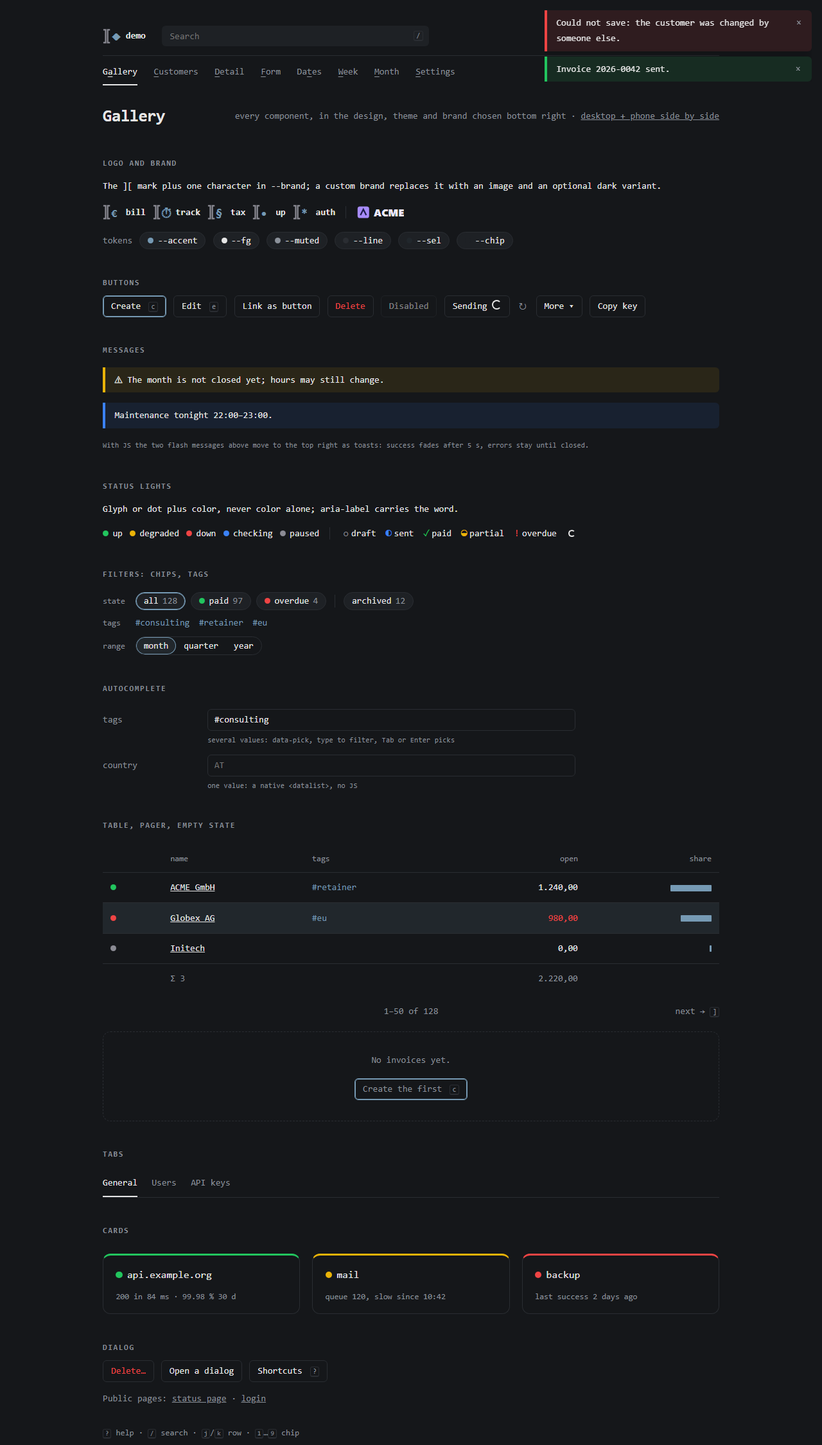
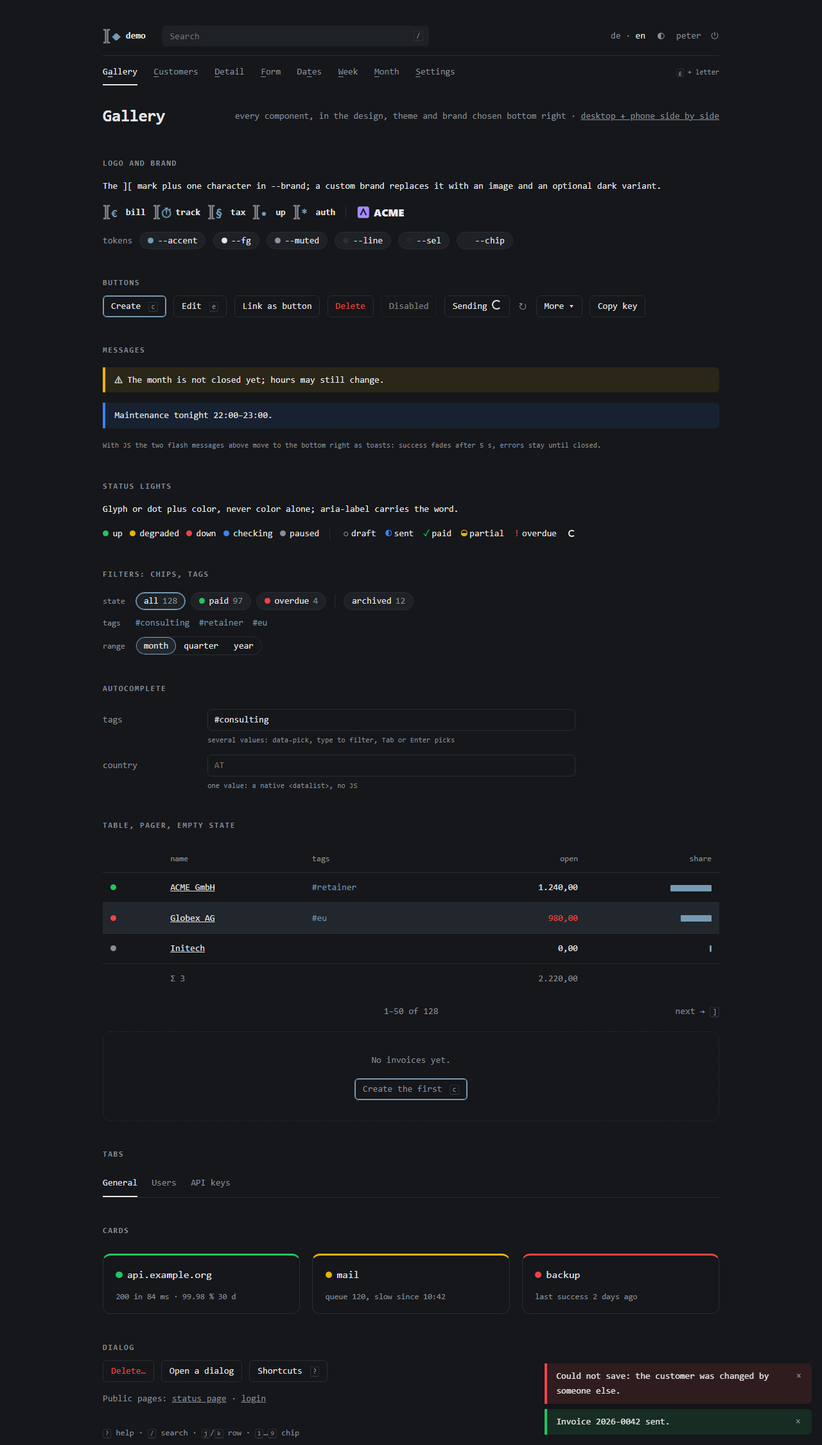
Keep two designs, plain and nordic; polish both
- remove ink, bw, terminal and modern (and the --font and --rule tokens
  only they used): fewer designs, each finished in light, dark and phone
- toasts at the bottom (full width on phones) so errors never cover the
  header, search, theme or logout
- checkbox and radio labels in forms read as values, not field names
- month calendar on phones: hours hidden in cells, bars carry them
- public pages (no nav) drop the keyboard hints line
- nordic: every main h1 gets the larger title, not only .pagehead

Changed region(s): [[0.6562, 0.9333, 1.0, 0.9956], [0.6562, 0.0, 1.0, 0.0622]]

diff --git a/ui.css b/ui.css
@@ -13,9 +13,7 @@
   /* state colors: one value for both themes, same in favicons, logos, mails */
   --green: #22c55e; --yellow: #eab308; --red: #ef4444; --blue: #3b82f6; --grey: #8b8b94;
   --mono: ui-monospace, SFMono-Regular, Menlo, Consolas, monospace;
-  --font: var(--mono); /* body text; only the modern design switches to sans */
   --r: 4px; --r-lg: 8px; /* control and panel radius */
-  --rule: 1px; /* header, nav and footer rules */
   --maxw: 80rem;
 }
 /* designs: one attribute on <html>, only tokens plus a few typographic rules */
@@ -25,37 +23,12 @@
   --line: light-dark(#e6e6e1, #2a2d32); --chip: light-dark(#f1f1ed, #1e2125);
   --r: 6px; --r-lg: 12px; --maxw: 64rem;
 }
-:where([data-design="ink"]) { /* print: warm paper, square corners, heavy rules, vermilion */
-  --brand: #c2410c;
-  --bg: light-dark(#f7f5ef, #0e0e0d); --fg: light-dark(#1b1a17, #eceae4); --muted: light-dark(#6f6b62, #9a968c);
-  --line: light-dark(#d9d4c7, #34322e); --chip: light-dark(#eeeae0, #1c1b19);
-  --r: 0; --r-lg: 0; --rule: 2px;
-}
-:where([data-design="bw"]) { /* minimal black and white: no brand color, only state colors keep meaning */
-  --accent: var(--fg);
-  --bg: light-dark(#fff, #000); --fg: light-dark(#000, #fff); --muted: light-dark(#666, #999);
-  --line: light-dark(#d4d4d4, #3a3a3a); --chip: light-dark(#f5f5f5, #141414);
-  --r: 0; --r-lg: 0;
-}
-:where([data-design="terminal"]) { /* phosphor green text, amber accent, prompts; light is a paper terminal */
-  --brand: #b45309;
-  --bg: light-dark(#fbfbf7, #0b0f0c); --fg: light-dark(#183a1f, #a7f3b5); --muted: light-dark(#5d7262, #5f8f6a);
-  --line: light-dark(#cfdccf, #1f3324); --chip: light-dark(#eef3ec, #101a13);
-  --r: 0; --r-lg: 0;
-}
-:where([data-design="modern"]) { /* system sans, soft panels, filled primary buttons */
-  --brand: #4f46e5;
-  --font: system-ui, -apple-system, "Segoe UI", Roboto, sans-serif;
-  --bg: light-dark(#f8f8fa, #0f1012); --fg: light-dark(#18181b, #ececef); --muted: light-dark(#6b6b76, #9898a3);
-  --line: light-dark(#e6e6eb, #26262b); --chip: light-dark(#efeff3, #1c1c20);
-  --r: 8px; --r-lg: 14px; --maxw: 72rem;
-}
 :root[data-theme="light"] { color-scheme: light; }
 :root[data-theme="dark"] { color-scheme: dark; }
 
 /* ---- base ------------------------------------------------------------------------------------ */
 * { box-sizing: border-box; }
-body { margin: 0 auto; max-width: var(--maxw); padding: 1rem 16px 2rem; font: 14px/1.6 var(--font); background: var(--bg); color: var(--fg); overflow-wrap: break-word; }
+body { margin: 0 auto; max-width: var(--maxw); padding: 1rem 16px 2rem; font: 14px/1.6 var(--mono); background: var(--bg); color: var(--fg); overflow-wrap: break-word; }
 a { color: inherit; }
 h1 { font-size: 1.1rem; margin: 0; font-weight: normal; }
 h2 { font-size: 1rem; margin: 1.6rem 0 .6rem; font-weight: normal; color: var(--muted); }
@@ -83,7 +56,7 @@ code { font-family: var(--mono); }
 }
 
 /* ---- header, nav, search ------------------------------------------------------------------- */
-header.app { display: flex; flex-wrap: wrap; gap: .8rem 1.6rem; align-items: center; padding-bottom: .9rem; border-bottom: var(--rule) solid var(--line); }
+header.app { display: flex; flex-wrap: wrap; gap: .8rem 1.6rem; align-items: center; padding-bottom: .9rem; border-bottom: 1px solid var(--line); }
 header.app .right { margin-left: auto; display: flex; gap: .9rem; align-items: center; color: var(--muted); white-space: nowrap; }
 header.app .right a { text-decoration: none; }
 header.app .right a.on { color: var(--fg); }
@@ -152,11 +125,11 @@ details.more .menu form { display: block; }
 .flash.ok { --c: var(--green); }
 .warn { --c: var(--yellow); }
 .banner { --c: var(--blue); }
-.toasts { position: fixed; top: 1rem; right: 16px; z-index: 50; display: grid; gap: .5rem; width: min(26rem, calc(100vw - 32px)); max-height: calc(100vh - 2rem); overflow: auto; }
+.toasts { position: fixed; bottom: 1rem; right: 16px; z-index: 50; display: grid; gap: .5rem; width: min(26rem, calc(100vw - 32px)); max-height: calc(100vh - 2rem); overflow: auto; }
 .toasts .flash { margin: 0; display: flex; gap: .6rem; align-items: start; background: color-mix(in srgb, var(--c, var(--red)) 12%, var(--bg)); box-shadow: 0 4px 16px rgb(0 0 0 / .18); animation: toast-in .2s ease-out; }
 .toasts .flash .x { margin-left: auto; border: 0; background: none; padding: 0 .2rem; line-height: 1.6; color: var(--muted); }
 .toasts .flash.out { opacity: 0; transition: opacity .4s; }
-@keyframes toast-in { from { opacity: 0; transform: translateY(-.5rem); } }
+@keyframes toast-in { from { opacity: 0; transform: translateY(.5rem); } }
 .saved { color: var(--green); font-size: .88em; }
 .saved.err { color: var(--red); }
 
@@ -205,6 +178,7 @@ tfoot td { border-bottom: 0; color: var(--muted); }
 /* ---- forms and detail ------------------------------------------------------------------------ */
 .form { display: grid; grid-template-columns: 9rem minmax(0, 1fr); gap: .8rem 1.2rem; align-items: center; margin-top: 1.4rem; max-width: 46rem; }
 .form > label, .form > .lab { color: var(--muted); }
+.form > label:has(input[type=checkbox], input[type=radio]) { color: var(--fg); } /* a checkbox label is the value, not the field name */
 .form input:not([type=checkbox]):not([type=radio]):not([type=color]), .form select { width: 100%; }
 .form > .full { grid-column: 1 / -1; }
 .form > h2.full { margin: 1rem 0 0; font-size: 1em; color: var(--fg); border-bottom: 1px solid var(--line); padding-bottom: .3rem; }
@@ -225,7 +199,7 @@ dialog table td { padding: .25rem .6rem; }
 dialog[open] { animation: pop .15s ease-out; }
 @keyframes pop { from { opacity: 0; transform: scale(.97); } }
 .keys { margin-top: 1.8rem; font-size: .8rem; color: var(--muted); line-height: 2; }
-.foot { display: flex; flex-wrap: wrap; gap: .3rem 1.2rem; margin-top: 2rem; padding-top: 1rem; border-top: var(--rule) solid var(--line); font-size: .78rem; color: var(--muted); }
+.foot { display: flex; flex-wrap: wrap; gap: .3rem 1.2rem; margin-top: 2rem; padding-top: 1rem; border-top: 1px solid var(--line); font-size: .78rem; color: var(--muted); }
 .foot b { color: var(--fg); }
 /* standalone pages (login, public status): one centered column */
 body.center { max-width: 26rem; padding-top: 12vh; }
@@ -287,42 +261,9 @@ dialog.palette .none { padding: .35rem 1rem; color: var(--muted); }
 
 /* ---- design accents beyond tokens ------------------------------------------------------------ */
 [data-design="nordic"] body { padding: 2.5rem 2rem; line-height: 1.7; }
-[data-design="nordic"] .pagehead h1, [data-design="nordic"] main > h1 { font-size: 1.6rem; font-weight: 600; letter-spacing: -.01em; }
+[data-design="nordic"] main h1 { font-size: 1.6rem; font-weight: 600; letter-spacing: -.01em; }
 [data-design="nordic"] main h2:not(dialog h2, .card h2) { font-size: .75rem; font-weight: 600; letter-spacing: .14em; text-transform: uppercase; margin-top: 2.6rem; }
 [data-design="nordic"] th, [data-design="nordic"] td { padding: .7rem .75rem; }
-[data-design="ink"] h1 { font-weight: 800; text-transform: uppercase; letter-spacing: .04em; }
-[data-design="ink"] th { color: var(--fg); font-weight: 700; text-transform: uppercase; font-size: .75em; letter-spacing: .08em; border-bottom: 2px solid var(--fg); }
-[data-design="ink"] nav.app a.on, [data-design="ink"] .tabs a.on { border-bottom-width: 3px; border-color: var(--accent); }
-[data-design="ink"] button.pri, [data-design="ink"] .btn.pri { background: var(--fg); color: var(--bg); border-color: var(--fg); box-shadow: none; }
-[data-design="ink"] .chip, [data-design="ink"] .seg { border-radius: 0; }
-[data-design="bw"] a:not(.btn, .chip, .logo, nav a, .tabs a, .results a, .menu a) { text-underline-offset: 3px; }
-[data-design="bw"] button.pri, [data-design="bw"] .btn.pri { background: var(--fg); color: var(--bg); border-color: var(--fg); box-shadow: none; }
-[data-design="bw"] .chip.on { background: var(--fg); color: var(--bg); box-shadow: none; }
-[data-design="bw"] .chip.on .n { color: inherit; opacity: .7; }
-[data-design="bw"] .tag { text-decoration: underline; text-underline-offset: 3px; }
-[data-design="terminal"] h1::before { content: "$ "; color: var(--muted); }
-[data-design="terminal"] nav.app a.on, [data-design="terminal"] .tabs a.on { border-bottom: 0; }
-[data-design="terminal"] nav.app a.on::before, [data-design="terminal"] .tabs a.on::before { content: "> "; color: var(--accent); }
-[data-design="terminal"] tr.sel td, [data-design="terminal"] tr.sel td :not(.dot, .st, .bar) { background: var(--fg); color: var(--bg); }
-[data-design="terminal"] input, [data-design="terminal"] textarea { caret-color: var(--accent); caret-shape: block; }
-[data-design="terminal"] input:focus, [data-design="terminal"] select:focus, [data-design="terminal"] textarea:focus { box-shadow: none; border-style: dashed; }
-[data-design="terminal"] .chip, [data-design="terminal"] .seg { border-radius: 0; }
-[data-design="terminal"] .chip.on { background: var(--accent); color: var(--bg); box-shadow: none; }
-[data-design="terminal"] .chip.on .n { color: inherit; }
-[data-design="terminal"] .card { border-top-width: 1px; border-left: 3px solid var(--c, var(--line)); }
-[data-design="modern"] body { font-size: 15px; }
-[data-design="modern"] h1 { font-size: 1.5rem; font-weight: 650; letter-spacing: -.02em; }
-[data-design="modern"] h2 { font-weight: 600; }
-[data-design="modern"] input, [data-design="modern"] select { min-height: 2.25rem; }
-[data-design="modern"] button, [data-design="modern"] .btn { padding: .4rem 1rem; font-weight: 500; }
-[data-design="modern"] button.pri, [data-design="modern"] .btn.pri { background: var(--accent); color: light-dark(#fff, #0f1012); border-color: var(--accent); box-shadow: 0 1px 2px rgb(0 0 0 / .15); }
-[data-design="modern"] button.pri kbd, [data-design="modern"] .btn.pri kbd { color: inherit; border-color: currentColor; opacity: .75; }
-[data-design="modern"] .chip { border-color: transparent; padding: .15rem .85rem; }
-[data-design="modern"] .chip.on { background: var(--sel); color: var(--accent); box-shadow: none; border-color: transparent; }
-[data-design="modern"] table { background: var(--bg); }
-[data-design="modern"] th { font-size: .78em; text-transform: uppercase; letter-spacing: .05em; }
-[data-design="modern"] .card, [data-design="modern"] .empty { background: light-dark(#fff, #16171a); box-shadow: 0 1px 3px rgb(0 0 0 / .08); }
-[data-design="modern"] .card { border-top-width: 1px; box-shadow: inset 0 3px 0 var(--c, transparent), 0 1px 3px rgb(0 0 0 / .08); }
 
 /* ---- small screens, touch, motion ------------------------------------------------------------ */
 @media (hover: none) { kbd, .keys { display: none; } }
@@ -348,6 +289,7 @@ dialog.palette .none { padding: .35rem 1rem; color: var(--muted); }
   .month .c small { display: none; }
   .form, .filters { grid-template-columns: 1fr; }
   .form .hint { grid-column: 1; }
+  .toasts { left: 16px; right: 16px; width: auto; }
   th, td { padding: .5rem .4rem; }
 }
 @media (prefers-reduced-motion: reduce) { *, *::before, *::after, ::backdrop { animation: none !important; transition: none !important; } }

diff --git a/examples/month.html b/examples/month.html
@@ -53,18 +53,18 @@
 <a class="c out closed" href="week.html"><span><b>30</b></span></a>
 <a class="c out closed" href="week.html"><span><b>31</b></span></a>
 <a class="c" href="week.html"><span><b>1</b></span><small class="muted">All Saints</small></a>
-<a class="c" href="week.html"><span><b>2</b> · 7:00</span><span class="stack" role="img" aria-label="ACME GmbH 5:00, internal 2:00"><i style="--c:#2563eb;width:62.5%"></i><i style="--c:#059669;width:25.0%"></i></span></a>
-<a class="c" href="week.html"><span><b>3</b> · 6:45</span><span class="stack" role="img" aria-label="Globex AG 5:00, internal 1:45"><i style="--c:#db2777;width:62.5%"></i><i style="--c:#059669;width:21.9%"></i></span></a>
-<a class="c" href="week.html"><span><b>4</b> · 7:00</span><span class="stack" role="img" aria-label="Hooli e.U. 7:00"><i style="--c:#d97706;width:87.5%"></i></span></a>
-<a class="c today" href="week.html"><span><b>5</b> · 5:20</span><span class="stack" role="img" aria-label="ACME GmbH 3:30, Globex AG 1:50"><i style="--c:#2563eb;width:43.8%"></i><i style="--c:#db2777;width:22.9%"></i></span></a>
+<a class="c" href="week.html"><span><b>2</b><span class="hide-phone"> · 7:00</span></span><span class="stack" role="img" aria-label="ACME GmbH 5:00, internal 2:00"><i style="--c:#2563eb;width:62.5%"></i><i style="--c:#059669;width:25.0%"></i></span></a>
+<a class="c" href="week.html"><span><b>3</b><span class="hide-phone"> · 6:45</span></span><span class="stack" role="img" aria-label="Globex AG 5:00, internal 1:45"><i style="--c:#db2777;width:62.5%"></i><i style="--c:#059669;width:21.9%"></i></span></a>
+<a class="c" href="week.html"><span><b>4</b><span class="hide-phone"> · 7:00</span></span><span class="stack" role="img" aria-label="Hooli e.U. 7:00"><i style="--c:#d97706;width:87.5%"></i></span></a>
+<a class="c today" href="week.html"><span><b>5</b><span class="hide-phone"> · 5:20</span></span><span class="stack" role="img" aria-label="ACME GmbH 3:30, Globex AG 1:50"><i style="--c:#2563eb;width:43.8%"></i><i style="--c:#db2777;width:22.9%"></i></span></a>
 <a class="c" href="week.html"><span><b>6</b></span></a>
 <a class="c" href="week.html"><span><b>7</b></span></a>
 <a class="c" href="week.html"><span><b>8</b></span></a>
-<a class="c" href="week.html"><span><b>9</b> · 7:30</span><span class="stack" role="img" aria-label="ACME GmbH 7:30"><i style="--c:#2563eb;width:93.8%"></i></span></a>
-<a class="c" href="week.html"><span><b>10</b> · 6:30</span><span class="stack" role="img" aria-label="Globex AG 6:30"><i style="--c:#db2777;width:81.2%"></i></span></a>
-<a class="c" href="week.html"><span><b>11</b> · 8:00</span><span class="stack" role="img" aria-label="ACME GmbH 4:00, Globex AG 4:00"><i style="--c:#2563eb;width:50.0%"></i><i style="--c:#db2777;width:50.0%"></i></span></a>
-<a class="c" href="week.html"><span><b>12</b> · 6:00</span><span class="stack" role="img" aria-label="Hooli e.U. 6:00"><i style="--c:#d97706;width:75.0%"></i></span></a>
-<a class="c" href="week.html"><span><b>13</b> · 4:00</span><span class="stack" role="img" aria-label="internal 4:00"><i style="--c:#059669;width:50.0%"></i></span></a>
+<a class="c" href="week.html"><span><b>9</b><span class="hide-phone"> · 7:30</span></span><span class="stack" role="img" aria-label="ACME GmbH 7:30"><i style="--c:#2563eb;width:93.8%"></i></span></a>
+<a class="c" href="week.html"><span><b>10</b><span class="hide-phone"> · 6:30</span></span><span class="stack" role="img" aria-label="Globex AG 6:30"><i style="--c:#db2777;width:81.2%"></i></span></a>
+<a class="c" href="week.html"><span><b>11</b><span class="hide-phone"> · 8:00</span></span><span class="stack" role="img" aria-label="ACME GmbH 4:00, Globex AG 4:00"><i style="--c:#2563eb;width:50.0%"></i><i style="--c:#db2777;width:50.0%"></i></span></a>
+<a class="c" href="week.html"><span><b>12</b><span class="hide-phone"> · 6:00</span></span><span class="stack" role="img" aria-label="Hooli e.U. 6:00"><i style="--c:#d97706;width:75.0%"></i></span></a>
+<a class="c" href="week.html"><span><b>13</b><span class="hide-phone"> · 4:00</span></span><span class="stack" role="img" aria-label="internal 4:00"><i style="--c:#059669;width:50.0%"></i></span></a>
 <a class="c" href="week.html"><span><b>14</b></span></a>
 <a class="c" href="week.html"><span><b>15</b></span></a>
 <a class="c" href="week.html"><span><b>16</b></span></a>

diff --git a/pages/month.html b/pages/month.html
@@ -16,18 +16,18 @@
 <a class="c out closed" href="week.html"><span><b>30</b></span></a>
 <a class="c out closed" href="week.html"><span><b>31</b></span></a>
 <a class="c" href="week.html"><span><b>1</b></span><small class="muted">All Saints</small></a>
-<a class="c" href="week.html"><span><b>2</b> · 7:00</span><span class="stack" role="img" aria-label="ACME GmbH 5:00, internal 2:00"><i style="--c:#2563eb;width:62.5%"></i><i style="--c:#059669;width:25.0%"></i></span></a>
-<a class="c" href="week.html"><span><b>3</b> · 6:45</span><span class="stack" role="img" aria-label="Globex AG 5:00, internal 1:45"><i style="--c:#db2777;width:62.5%"></i><i style="--c:#059669;width:21.9%"></i></span></a>
-<a class="c" href="week.html"><span><b>4</b> · 7:00</span><span class="stack" role="img" aria-label="Hooli e.U. 7:00"><i style="--c:#d97706;width:87.5%"></i></span></a>
-<a class="c today" href="week.html"><span><b>5</b> · 5:20</span><span class="stack" role="img" aria-label="ACME GmbH 3:30, Globex AG 1:50"><i style="--c:#2563eb;width:43.8%"></i><i style="--c:#db2777;width:22.9%"></i></span></a>
+<a class="c" href="week.html"><span><b>2</b><span class="hide-phone"> · 7:00</span></span><span class="stack" role="img" aria-label="ACME GmbH 5:00, internal 2:00"><i style="--c:#2563eb;width:62.5%"></i><i style="--c:#059669;width:25.0%"></i></span></a>
+<a class="c" href="week.html"><span><b>3</b><span class="hide-phone"> · 6:45</span></span><span class="stack" role="img" aria-label="Globex AG 5:00, internal 1:45"><i style="--c:#db2777;width:62.5%"></i><i style="--c:#059669;width:21.9%"></i></span></a>
+<a class="c" href="week.html"><span><b>4</b><span class="hide-phone"> · 7:00</span></span><span class="stack" role="img" aria-label="Hooli e.U. 7:00"><i style="--c:#d97706;width:87.5%"></i></span></a>
+<a class="c today" href="week.html"><span><b>5</b><span class="hide-phone"> · 5:20</span></span><span class="stack" role="img" aria-label="ACME GmbH 3:30, Globex AG 1:50"><i style="--c:#2563eb;width:43.8%"></i><i style="--c:#db2777;width:22.9%"></i></span></a>
 <a class="c" href="week.html"><span><b>6</b></span></a>
 <a class="c" href="week.html"><span><b>7</b></span></a>
 <a class="c" href="week.html"><span><b>8</b></span></a>
-<a class="c" href="week.html"><span><b>9</b> · 7:30</span><span class="stack" role="img" aria-label="ACME GmbH 7:30"><i style="--c:#2563eb;width:93.8%"></i></span></a>
-<a class="c" href="week.html"><span><b>10</b> · 6:30</span><span class="stack" role="img" aria-label="Globex AG 6:30"><i style="--c:#db2777;width:81.2%"></i></span></a>
-<a class="c" href="week.html"><span><b>11</b> · 8:00</span><span class="stack" role="img" aria-label="ACME GmbH 4:00, Globex AG 4:00"><i style="--c:#2563eb;width:50.0%"></i><i style="--c:#db2777;width:50.0%"></i></span></a>
-<a class="c" href="week.html"><span><b>12</b> · 6:00</span><span class="stack" role="img" aria-label="Hooli e.U. 6:00"><i style="--c:#d97706;width:75.0%"></i></span></a>
-<a class="c" href="week.html"><span><b>13</b> · 4:00</span><span class="stack" role="img" aria-label="internal 4:00"><i style="--c:#059669;width:50.0%"></i></span></a>
+<a class="c" href="week.html"><span><b>9</b><span class="hide-phone"> · 7:30</span></span><span class="stack" role="img" aria-label="ACME GmbH 7:30"><i style="--c:#2563eb;width:93.8%"></i></span></a>
+<a class="c" href="week.html"><span><b>10</b><span class="hide-phone"> · 6:30</span></span><span class="stack" role="img" aria-label="Globex AG 6:30"><i style="--c:#db2777;width:81.2%"></i></span></a>
+<a class="c" href="week.html"><span><b>11</b><span class="hide-phone"> · 8:00</span></span><span class="stack" role="img" aria-label="ACME GmbH 4:00, Globex AG 4:00"><i style="--c:#2563eb;width:50.0%"></i><i style="--c:#db2777;width:50.0%"></i></span></a>
+<a class="c" href="week.html"><span><b>12</b><span class="hide-phone"> · 6:00</span></span><span class="stack" role="img" aria-label="Hooli e.U. 6:00"><i style="--c:#d97706;width:75.0%"></i></span></a>
+<a class="c" href="week.html"><span><b>13</b><span class="hide-phone"> · 4:00</span></span><span class="stack" role="img" aria-label="internal 4:00"><i style="--c:#059669;width:50.0%"></i></span></a>
 <a class="c" href="week.html"><span><b>14</b></span></a>
 <a class="c" href="week.html"><span><b>15</b></span></a>
 <a class="c" href="week.html"><span><b>16</b></span></a>

diff --git a/examples/demo.js b/examples/demo.js
@@ -1,5 +1,5 @@
 // Demo only, not part of nobloat/ui: the design / theme / brand / logo switcher and a fake backend,
-// so the examples work as plain files. URL parameters (?design=ink&theme=dark&brand=%23c2410c&logo=1)
+// so the examples work as plain files. URL parameters (?design=nordic&theme=dark&brand=%23c2410c&logo=1)
 // override and are remembered across pages; screenshots.sh and preview.html use them.
 {
   const root = document.documentElement, KEY = 'nb-demo';
@@ -7,7 +7,7 @@
   try { s = JSON.parse(localStorage.getItem(KEY)) || {}; } catch {}
   const params = new URLSearchParams(location.search);
   for (const [k, v] of params) if (['design', 'brand', 'logo'].includes(k)) s[k] = v;
-  const defaults = {'': '#0969da', nordic: '#3b6e94', ink: '#c2410c', bw: '#000000', terminal: '#b45309', modern: '#4f46e5'};
+  const defaults = {'': '#0969da', nordic: '#3b6e94'};
   const logoHTML = document.querySelector('.logo')?.innerHTML;
   const apply = () => {
     s.design ? root.dataset.design = s.design : delete root.dataset.design;
@@ -24,7 +24,7 @@
   panel.setAttribute('aria-label', 'demo settings');
   panel.style.cssText = 'position:fixed;right:12px;bottom:12px;z-index:70;display:flex;flex-wrap:wrap;gap:.4rem;align-items:center;padding:.5rem .7rem;font-size:.8rem;background:var(--bg);border:1px solid var(--line);border-radius:var(--r-lg);box-shadow:0 6px 24px rgb(0 0 0 / .15)';
   panel.innerHTML = `<span class="muted">demo</span>
-    <select name="design" aria-label="design"><option value="">plain</option><option value="nordic">nordic</option><option value="ink">ink</option><option value="bw">b/w</option><option value="terminal">terminal</option><option value="modern">modern</option></select>
+    <select name="design" aria-label="design"><option value="">plain</option><option value="nordic">nordic</option></select>
     <input type="color" name="brand" aria-label="brand color" title="--brand" style="padding:0;width:2rem;height:1.6rem">
     <button type="button" name="reset" title="design default color">↺</button>
     <label><input type="checkbox" name="logo"> custom logo</label>`;

diff --git a/examples/preview.html b/examples/preview.html
@@ -34,7 +34,7 @@
 <option value="index.html">gallery</option><option value="list.html">list</option><option value="detail.html">detail</option>
 <option value="form.html">form</option><option value="dates.html">dates</option><option value="week.html">week calendar</option><option value="month.html">month calendar</option><option value="settings.html">settings</option><option value="status.html">status (public)</option><option value="login.html">login</option>
 </select></label>
-<label>design <select name="design"><option value="">plain</option><option value="nordic">nordic</option><option value="ink">ink</option><option value="bw">b/w</option><option value="terminal">terminal</option><option value="modern">modern</option></select></label>
+<label>design <select name="design"><option value="">plain</option><option value="nordic">nordic</option></select></label>
 <span class="lab">theme</span> <span class="seg"><label><input type="radio" name="theme" value="" checked>auto</label><label><input type="radio" name="theme" value="light">light</label><label><input type="radio" name="theme" value="dark">dark</label></span>
 <label>brand <input type="color" name="brand" value="#0969da"> <button type="button" id="reset" title="design default color">↺</button></label>
 <label><input type="checkbox" name="logo"> custom logo</label>
@@ -48,7 +48,7 @@
 <script>
 {
   const f = document.getElementById('ctl'), desk = document.getElementById('desk'), mob = document.getElementById('mob'), phone = document.getElementById('phone');
-  const defaults = {'': '#0969da', nordic: '#3b6e94', ink: '#c2410c', bw: '#000000', terminal: '#b45309', modern: '#4f46e5'};
+  const defaults = {'': '#0969da', nordic: '#3b6e94'};
   const q = new URLSearchParams(location.search);
   let page = q.get('page') || 'index.html', brand = q.get('brand') || '';
   f.design.value = q.get('design') || '';

diff --git a/partials.html b/partials.html
@@ -6,7 +6,7 @@ The page value (dot) needs:
   .Lang .Title .Here .Q .Version string     .Err .Notice string (flash)
   .Brand  {App, Char, Name, Color, ColorDark, Logo, LogoDark, Icon, Design string}
           App "bill", Char "€" (the ][€ glyph). Name, Logo, LogoDark, Icon only for a custom brand.
-          Color/ColorDark set --brand/--brand-dark (#rrggbb); Design "" (plain), "nordic" or "ink".
+          Color/ColorDark set --brand/--brand-dark (#rrggbb); Design "" (plain) or "nordic".
   .Nav    []{Href, Label, Key string; On bool}   empty hides the nav; Key is the g+letter shortcut
   .Search string (search form action, "" = none)  .SearchAPI string (live search endpoint, optional)
   .User .UserURL .LogoutURL string             .Texts map[string]string (the js.* and search.* texts)
@@ -55,7 +55,7 @@ The page value (dot) needs:
 
 {{define "nb-flash"}}{{with .Err}}<p class="flash" role="alert">{{.}}</p>{{end}}{{with .Notice}}<p class="flash ok" role="status">{{.}}</p>{{end}}{{end}}
 
-{{define "nb-foot"}}<p class="keys"><kbd>?</kbd> {{.T "key.help"}}{{if .Search}} · <kbd>/</kbd> {{.T "key.search"}}{{end}}{{block "keys" .}}{{end}}</p>
+{{define "nb-foot"}}{{if .Nav}}<p class="keys"><kbd>?</kbd> {{.T "key.help"}}{{if .Search}} · <kbd>/</kbd> {{.T "key.search"}}{{end}}{{block "keys" .}}{{end}}</p>{{end}}
 <footer class="foot">
 <b>][{{.Brand.Char}} nobloat/{{.Brand.App}}</b>
 <span>{{.T "foot.made"}} <a href="https://spiessknafl.at/peter" rel="noopener">cinemast</a> · <a href="https://nobloat.org" rel="noopener">nobloat.org</a> · <a href="https://github.com/nobloat/{{.Brand.App}}" rel="noopener">src</a> · {{.Version}}</span>

diff --git a/examples/index.html b/examples/index.html
@@ -81,7 +81,7 @@
 <p class="flash ok" role="status">Invoice 2026-0042 sent.</p>
 <p class="warn">⚠ The month is not closed yet; hours may still change.</p>
 <p class="banner">Maintenance tonight 22:00–23:00.</p>
-<p class="muted"><small>With JS the two flash messages above move to the top right as toasts: success fades after 5 s, errors stay until closed.</small></p>
+<p class="muted"><small>With JS the two flash messages above move to the bottom right as toasts: success fades after 5 s, errors stay until closed.</small></p>
 
 <h2>Status lights</h2>
 <p>Glyph or dot plus color, never color alone; <code>aria-label</code> carries the word.</p>

diff --git a/pages/index.html b/pages/index.html
@@ -44,7 +44,7 @@
 <p class="flash ok" role="status">Invoice 2026-0042 sent.</p>
 <p class="warn">⚠ The month is not closed yet; hours may still change.</p>
 <p class="banner">Maintenance tonight 22:00–23:00.</p>
-<p class="muted"><small>With JS the two flash messages above move to the top right as toasts: success fades after 5 s, errors stay until closed.</small></p>
+<p class="muted"><small>With JS the two flash messages above move to the bottom right as toasts: success fades after 5 s, errors stay until closed.</small></p>
 
 <h2>Status lights</h2>
 <p>Glyph or dot plus color, never color alone; <code>aria-label</code> carries the word.</p>

diff --git a/examples/status.html b/examples/status.html
@@ -21,7 +21,7 @@
 <li class="card off"><h2><span class="dot off" role="img" aria-label="paused"></span>Backup</h2><p>paused: database maintenance until 12:00</p></li>
 </ul>
 </main>
-<p class="keys"><kbd>?</kbd> help</p>
+
 <footer class="foot">
 <b>][◆ nobloat/demo</b>
 <span>made by <a href="https://spiessknafl.at/peter" rel="noopener">cinemast</a> · <a href="https://nobloat.org" rel="noopener">nobloat.org</a> · <a href="https://github.com/nobloat/demo" rel="noopener">src</a> · v1 (3f2a9c1)</span>

diff --git a/ui.js b/ui.js
@@ -272,7 +272,7 @@ window.morph = (a, b) => {
   ac.slice(bc.length).forEach(n => n.remove());
 };
 
-// toasts: the page's flash messages float top right; successes fade after 5s, errors stay until closed.
+// toasts: the page's flash messages float bottom right (full width on phones); successes fade after 5s, errors stay until closed.
 // Without JS they stay where the page put them.
 {
   const ps = document.querySelectorAll('main p.flash');

diff --git a/examples/login.html b/examples/login.html
@@ -21,7 +21,7 @@
 </form>
 <p class="muted"><small><a href="#">Forgot password?</a></small></p>
 </main>
-<p class="keys"><kbd>?</kbd> help</p>
+
 <footer class="foot">
 <b>][◆ nobloat/demo</b>
 <span>made by <a href="https://spiessknafl.at/peter" rel="noopener">cinemast</a> · <a href="https://nobloat.org" rel="noopener">nobloat.org</a> · <a href="https://github.com/nobloat/demo" rel="noopener">src</a> · v1 (3f2a9c1)</span>

diff --git a/ui_test.go b/ui_test.go
@@ -126,14 +126,14 @@ func TestExamples(t *testing.T) {
 
 func TestBrand(t *testing.T) {
 	tpl := template.Must(template.ParseFiles("partials.html"))
-	p := Page{Brand: Brand{App: "bill", Char: "€", Name: "ACME", Color: "#7c3aed", ColorDark: "#a78bfa", Logo: "/brand/logo", LogoDark: "/brand/logo-dark", Design: "ink"}}
+	p := Page{Brand: Brand{App: "bill", Char: "€", Name: "ACME", Color: "#7c3aed", ColorDark: "#a78bfa", Logo: "/brand/logo", LogoDark: "/brand/logo-dark", Design: "nordic"}}
 	var b bytes.Buffer
 	for _, n := range []string{"nb-head", "nb-logo"} {
 		if err := tpl.ExecuteTemplate(&b, n, p); err != nil {
 			t.Fatal(err)
 		}
 	}
-	for _, want := range []string{`data-design="ink"`, `--brand: #7c3aed; --brand-dark: #a78bfa;`, `<title>ACME</title>`,
+	for _, want := range []string{`data-design="nordic"`, `--brand: #7c3aed; --brand-dark: #a78bfa;`, `<title>ACME</title>`,
 		`<img class="light" src="/brand/logo" alt="">`, `<img class="dark" src="/brand/logo-dark" alt="">`, `aria-label="ACME"`} {
 		if !strings.Contains(b.String(), want) {
 			t.Errorf("missing %s in\n%s", want, b.String())
